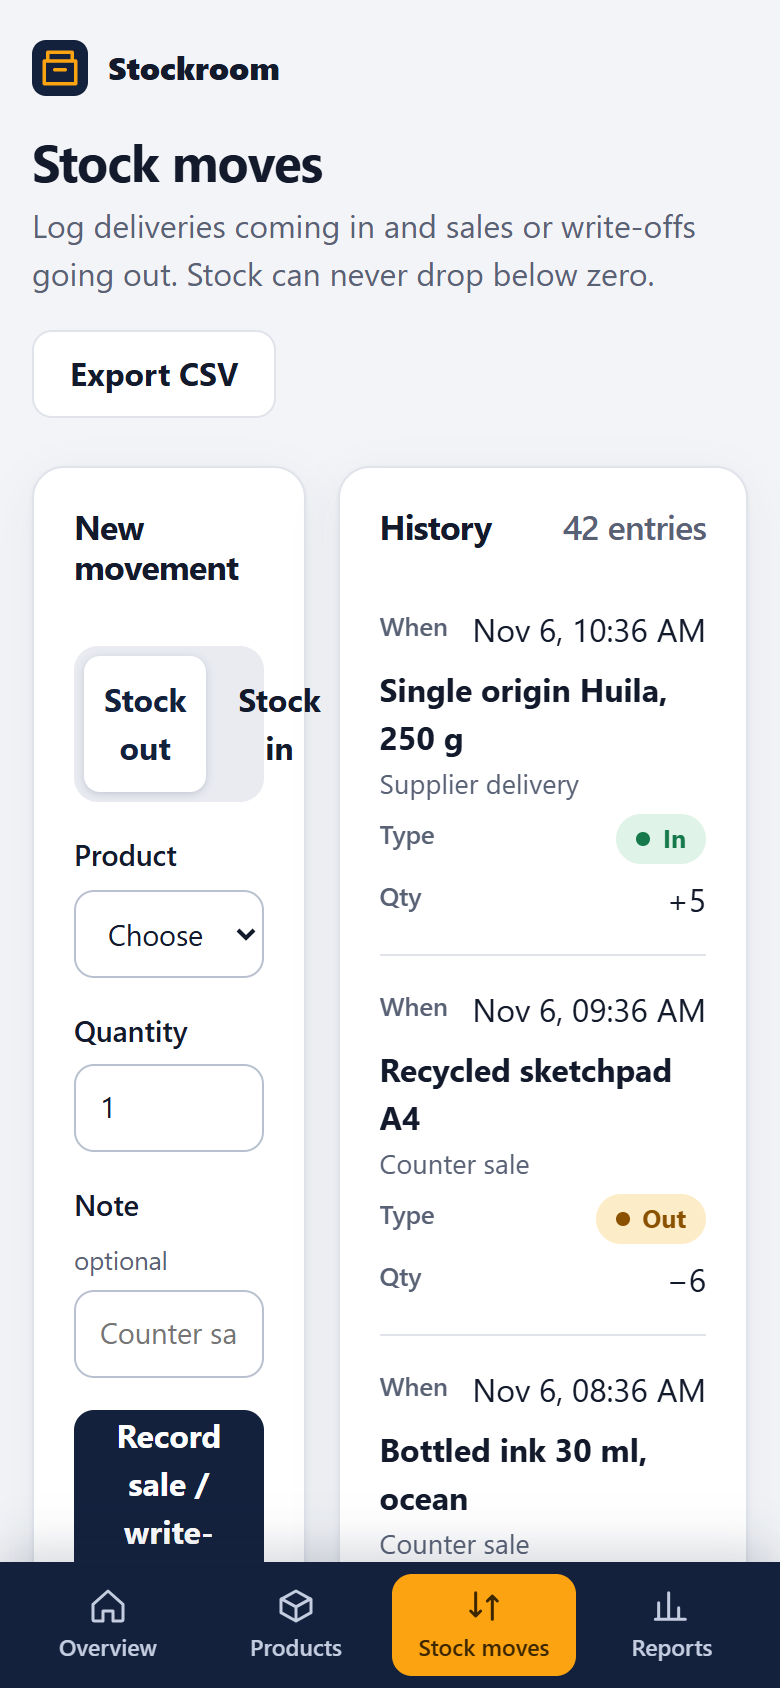
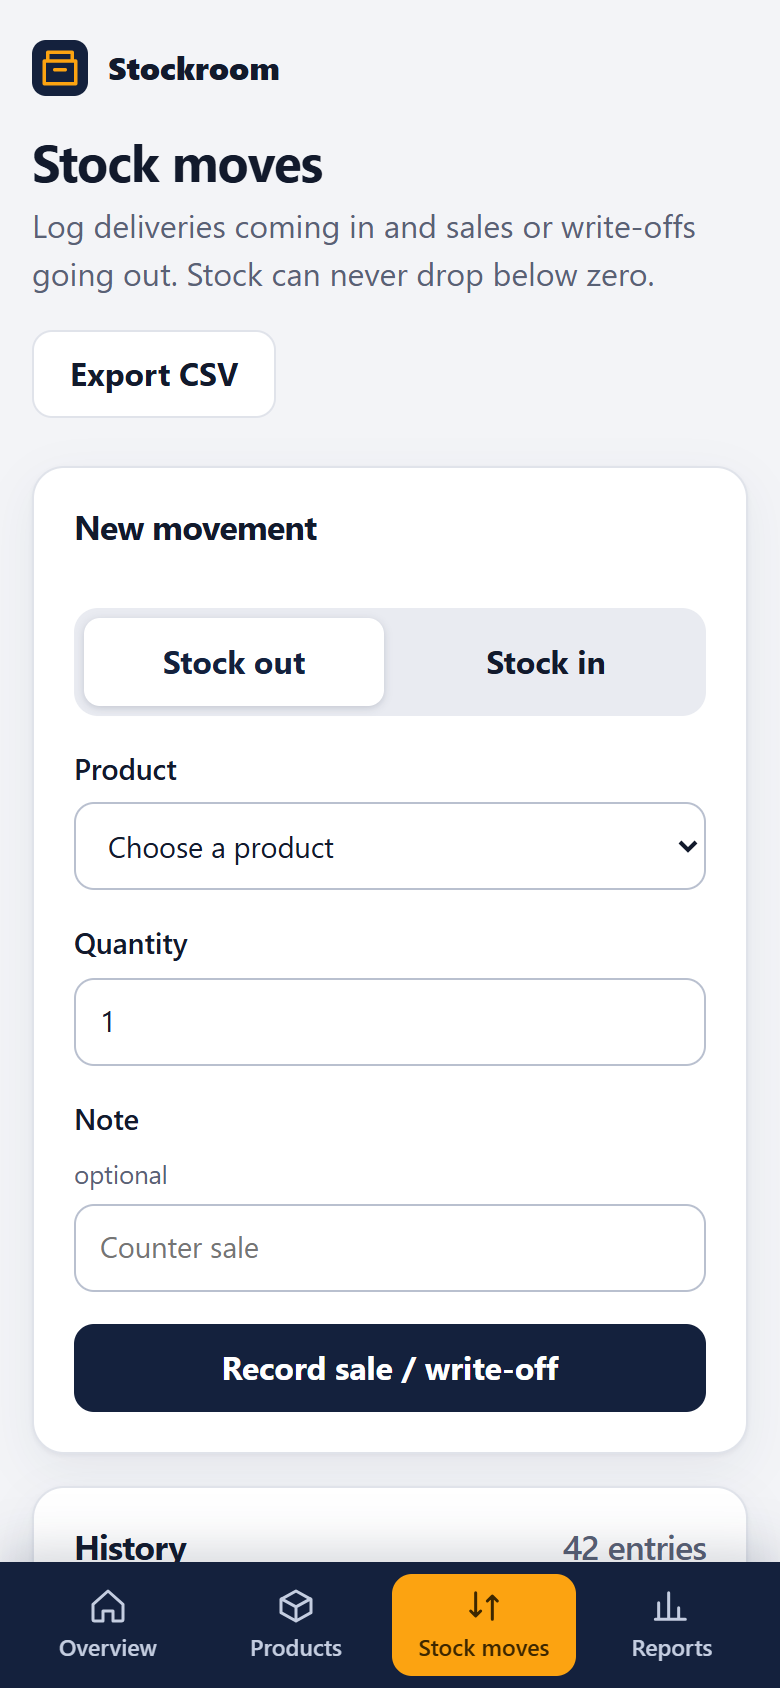
S-0332: fix Stock moves layout on mobile (class instead of inline grid)

diff --git a/src/app.css b/src/app.css
@@ -72,6 +72,8 @@ button, input, select { font: inherit; color: inherit; }
 .kpis { grid-template-columns: repeat(4, minmax(0, 1fr)); margin-bottom: 16px; }
 .two { grid-template-columns: minmax(0, 1.4fr) minmax(0, 1fr); }
 @media (max-width: 980px) { .kpis { grid-template-columns: repeat(2, minmax(0, 1fr)); } .two { grid-template-columns: minmax(0, 1fr); } }
+.two.moves { grid-template-columns: minmax(0, 1fr) minmax(0, 1.5fr); }
+@media (max-width: 980px) { .two.moves { grid-template-columns: minmax(0, 1fr); } }
 .card { background: var(--surface); border: 1px solid var(--line); border-radius: 16px; padding: 20px; box-shadow: var(--shadow); min-width: 0; }
 .card h2 { margin-bottom: 14px; display: flex; justify-content: space-between; align-items: baseline; gap: 8px; }
 .kpi .label { color: var(--muted); font-size: .85rem; font-weight: 600; }

diff --git a/src/routes/movements/+page.svelte b/src/routes/movements/+page.svelte
@@ -32,7 +32,7 @@
   <div class="actions"><button class="btn" onclick={() => download('stockroom-movements.csv', movementsCsv(inv.snapshot))}>Export CSV</button></div>
 </div>
 
-<div class="grid two" style="grid-template-columns:minmax(0,1fr) minmax(0,1.5fr)">
+<div class="grid two moves">
   <form class="card" onsubmit={submit} style="display:grid;gap:16px;align-content:start">
     <h2>New movement</h2>
     <fieldset style="border:0;padding:0;margin:0;min-width:0">
